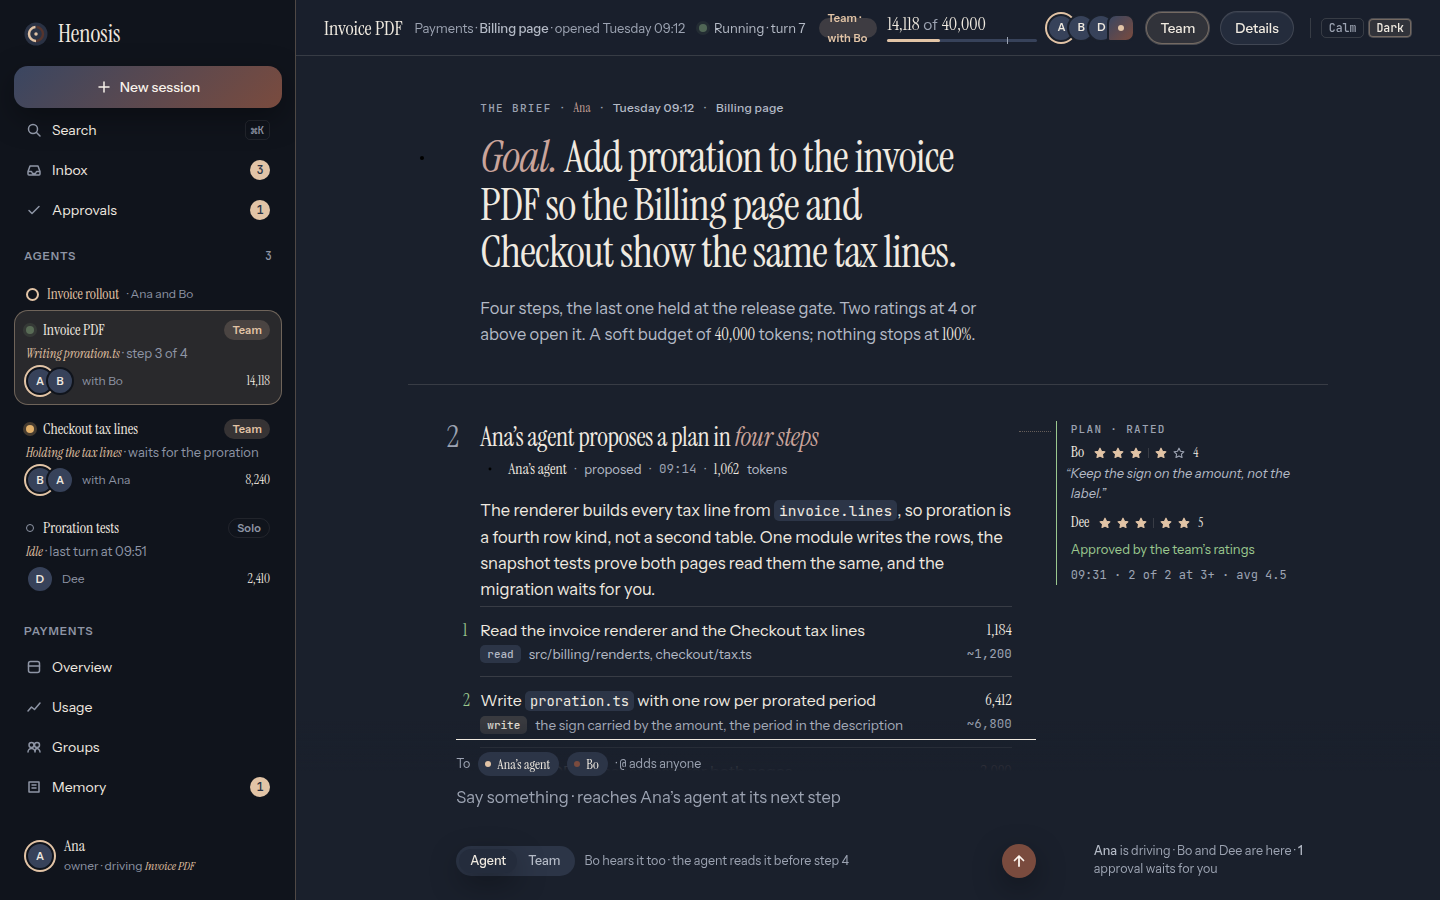
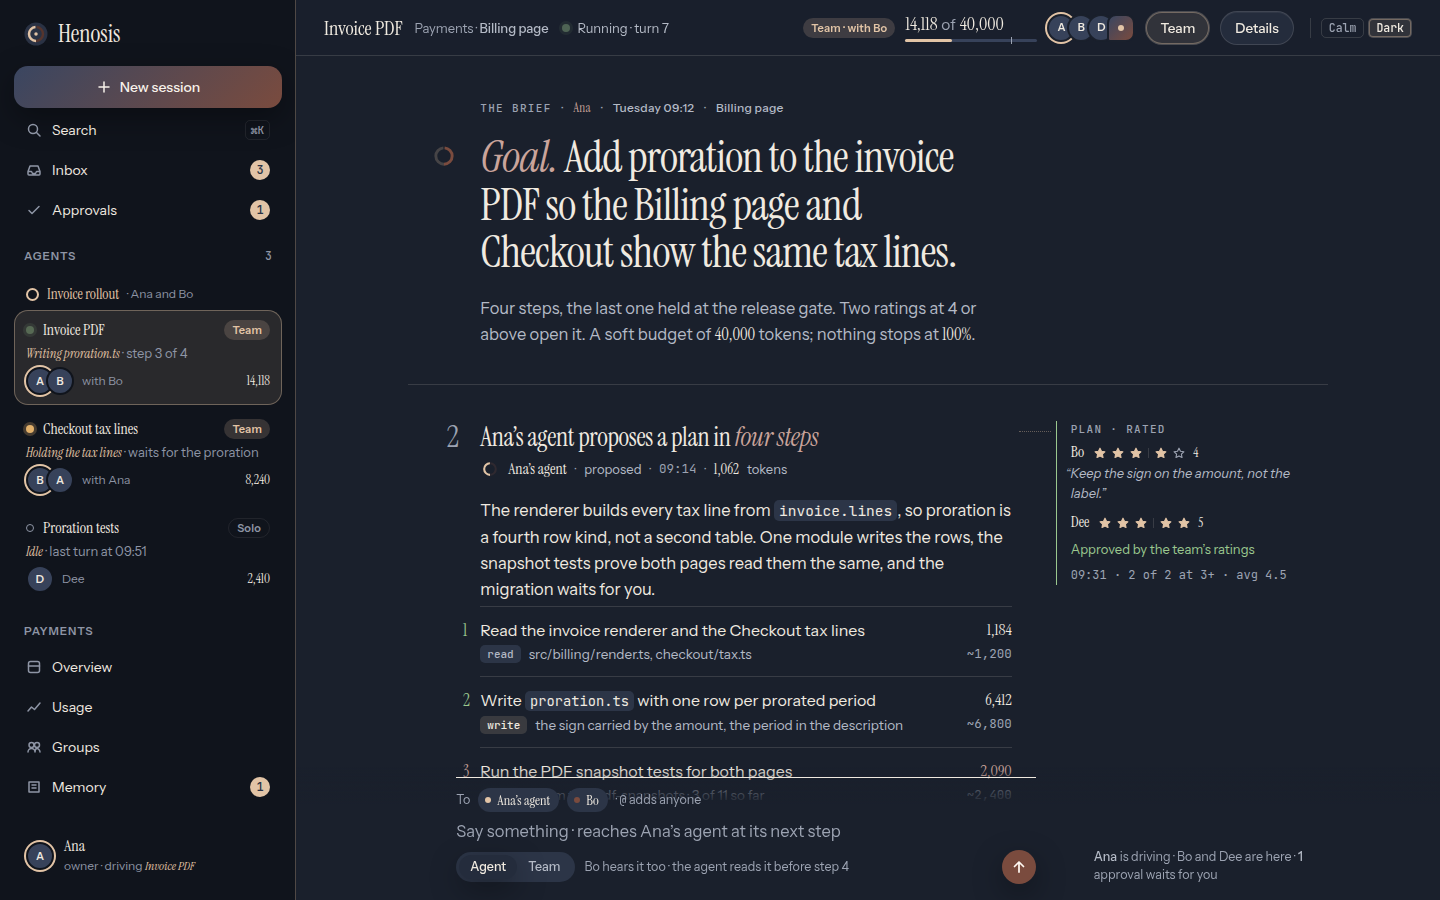
design: Henosis explorations, signature batch 9
The editorial session page, revised.

Claude-Session: https://claude.ai/code/session_01YPALfxci6V6KSAnMNM9o8c

diff --git a/design/henosis/explorations/sig-editorial-session/index.html b/design/henosis/explorations/sig-editorial-session/index.html
@@ -140,11 +140,11 @@ code { font-family: var(--mono); font-size: .92em; }
 .n .k { font-family: var(--font); font-weight: 400; font-size: .8em; color: var(--ink-3); margin-left: .18em; }
 
 /* ---- the mark: two arcs on the page (bare cut, colour by ground) -------------------------- */
-.ring { width: 20px; height: 20px; flex: none; vertical-align: -4px; }
-.ring .a { stroke: var(--ring-person); } .ring .b { stroke: var(--ring-agent); } .ring .c { fill: var(--ring-centre); }
-.ring.person .b { opacity: .22; } .ring.agent .a { opacity: .22; }   /* one voice: the other arc is a ghost */
-.ring.person .c, .ring.agent .c { opacity: 0; }
-.ring.both .c { opacity: 1; }                                        /* the team: a whole ring with its centre */
+/* colour reaches a <use> only through custom properties (SYSTEM §5, print-export's fix) */
+.ring { width: 20px; height: 20px; flex: none; vertical-align: -4px; --arc-a: var(--ring-person); --arc-b: var(--ring-agent); --arc-c: var(--ring-centre); }
+.ring.person { --arc-b-o: .22; --arc-c-o: 0; }   /* one voice: the other arc is a ghost, no centre yet */
+.ring.agent { --arc-a-o: .22; --arc-c-o: 0; }
+.ring.both { --arc-c-o: 1; }                      /* the team: a whole ring with its centre */
 .ring.lg { width: 28px; height: 28px; }
 
 /* ---- shell: navy rail + cream page --------------------------------------------------------- */
@@ -175,7 +175,7 @@ code { font-family: var(--mono); font-size: .92em; }
 .agent-card .doing i { font-family: var(--serif); font-style: italic; color: var(--apricot); }
 .agent-card .foot { display: flex; align-items: center; gap: 8px; font-size: 12px; color: var(--rail-muted); }
 .agent-card .foot .n { margin-left: auto; color: var(--rail-fg); font-size: 13px; }
-.pill { display: inline-flex; align-items: center; gap: 5px; height: 20px; padding: 0 8px; border-radius: var(--radius-full); font: 600 11px/20px var(--font); letter-spacing: .02em; background: var(--surface-3); color: var(--ink-2); }
+.pill { display: inline-flex; align-items: center; gap: 5px; white-space: nowrap; height: 20px; padding: 0 8px; border-radius: var(--radius-full); font: 600 11px/20px var(--font); letter-spacing: .02em; background: var(--surface-3); color: var(--ink-2); }
 .pill.team { background: var(--pill-team-bg); color: var(--pill-team-fg); }
 .pill.solo { background: transparent; border: 1px solid var(--rail-line); color: var(--rail-muted); }
 .pill.gate { background: var(--rail); color: var(--apricot); }
@@ -201,8 +201,8 @@ code { font-family: var(--mono); font-size: .92em; }
 .topbar .title .folio b { font-weight: 500; color: var(--ink-2); }
 .status { display: inline-flex; align-items: center; gap: 7px; font-size: 13px; color: var(--ink-2); white-space: nowrap; }
 .status::before { content: ""; width: 8px; height: 8px; border-radius: 50%; background: var(--ok); box-shadow: 0 0 0 3px var(--ok-soft); }
-.topbar .right { margin-left: auto; display: flex; align-items: center; gap: 10px; }
-.spend { display: inline-flex; flex-direction: column; gap: 4px; min-width: 150px; }
+.topbar .right { margin-left: auto; display: flex; align-items: center; gap: 10px; flex: none; }
+.spend { display: inline-flex; flex-direction: column; gap: 4px; min-width: 132px; }
 .spend .n { font-size: 18px; line-height: 20px; }
 .spend .hair { height: 3px; border-radius: 2px; background: var(--surface-3); position: relative; overflow: visible; }
 .spend .hair > i { display: block; height: 100%; width: 35.3%; background: var(--apricot-deep); border-radius: inherit; }
@@ -247,10 +247,10 @@ code { font-family: var(--mono); font-size: .92em; }
 .masthead h1 .goal { color: var(--accent-ink); font-style: italic; }
 .masthead .dek { grid-column: 2; margin-top: 18px; font-size: 16.5px; line-height: var(--lh); color: var(--ink-2); text-wrap: pretty; }
 .masthead .dek .n { color: var(--ink); }
-.masthead .gutter { grid-row: 1 / span 3; align-self: start; padding-top: 44px; }
+.masthead .gutter { grid-row: 1 / span 3; align-self: start; padding-top: 42px; display: flex; justify-content: flex-end; padding-right: 22px; }
 
 /* a turn: hung numeral in the gutter, serif heading, byline on the line, prose on the measure */
-.turn { margin-bottom: 40px; }
+.turn { margin-bottom: 40px; scroll-margin-top: 28px; }
 .turn .gutter .num { font-family: var(--serif); font-weight: 400; font-size: 30px; line-height: 32px; letter-spacing: -0.02em; font-variation-settings: "opsz" 48, "SOFT" 60, "WONK" 0; color: var(--ink-3); text-align: right; padding-right: 22px; }
 .turn h2 { font-family: var(--serif); font-weight: 400; font-size: 26px; line-height: 32px; letter-spacing: -0.015em; font-variation-settings: "opsz" 48, "SOFT" 50, "WONK" 0; text-wrap: balance; hanging-punctuation: first; }
 .turn h2 i { font-style: italic; color: var(--accent-ink); }
@@ -323,6 +323,7 @@ code { font-family: var(--mono); font-size: .92em; }
 .decision { font-family: var(--serif); font-style: italic; font-weight: 400; font-size: 22px; line-height: 30px; letter-spacing: -0.005em; font-variation-settings: "opsz" 22, "SOFT" 100, "WONK" 0; padding-left: 22px; border-left: 2px solid transparent; border-image: var(--gate-stripe) 1; text-wrap: pretty; }
 .decision code { font-style: normal; font-size: .72em; background: var(--surface-2); padding: 2px 7px; border-radius: 6px; vertical-align: 1px; }
 .rule { margin-top: 12px; font-size: 14.5px; line-height: 22px; color: var(--ink-2); }
+#gate .body { min-height: 196px; }   /* the note in the margin is taller than the passage; the page holds open for it */
 .rule b { font-weight: 500; color: var(--ink); }
 
 /* ---- marginal notes (ai-interfaces-avoid §9; editorial-type §10's margin) -------------------- */
@@ -369,14 +370,14 @@ code { font-family: var(--mono); font-size: .92em; }
 .colophon .n { color: var(--ink-2); }
 
 /* ---- the composer as a bottom rule (ai-interfaces-avoid §2, §3; presence-and-agents §7) ------- */
-.composer-wrap { position: sticky; bottom: 0; padding: 18px 24px 22px; background: linear-gradient(to top, var(--canvas) 72%, transparent); z-index: 2; }
+.composer-wrap { position: sticky; bottom: 0; padding: 10px 24px 16px; background: linear-gradient(to top, var(--canvas) 72%, transparent); z-index: 2; }
 .composer { width: min(var(--page-w, 1000px), 100%); margin: 0 auto; display: grid; grid-template-columns: var(--gutter-w) minmax(0, var(--measure)) var(--margin-gap) var(--margin-w); --page-w: calc(var(--gutter-w) + var(--measure) + var(--margin-gap) + var(--margin-w)); }
-.composer .field { grid-column: 2; border-top: 1px solid var(--ink); padding-top: 12px; display: flex; flex-direction: column; gap: 8px; transition: box-shadow var(--t) var(--ease-move); }
+.composer .field { grid-column: 2; border-top: 1px solid var(--ink); padding-top: 10px; display: flex; flex-direction: column; gap: 6px; transition: box-shadow var(--t) var(--ease-move); }
 .composer .to { display: flex; align-items: center; gap: 8px; font-size: 12.5px; color: var(--ink-3); }
 .composer .to .chip { display: inline-flex; align-items: center; gap: 6px; height: 24px; padding: 0 9px 0 7px; border-radius: var(--radius-full); background: var(--surface-2); font-family: var(--serif); font-size: 14px; color: var(--ink); }
 .composer .to .chip i { width: 6px; height: 6px; border-radius: 50%; background: var(--ring-agent); }
 .composer .to .chip.person i { background: var(--ring-person); }
-.composer textarea { width: 100%; border: 0; background: transparent; resize: none; outline: none; font: 400 16.5px/26px var(--font); min-height: 52px; padding: 0; color: var(--ink); }
+.composer textarea { width: 100%; border: 0; background: transparent; resize: none; outline: none; font: 400 16.5px/26px var(--font); min-height: 26px; padding: 0; color: var(--ink); field-sizing: content; }
 .composer textarea::placeholder { color: var(--ink-3); }
 .composer .bar { display: flex; align-items: center; gap: 10px; }
 .composer .bar .steer { font-size: 12.5px; color: var(--ink-3); }
@@ -390,6 +391,7 @@ code { font-family: var(--mono); font-size: .92em; }
 /* ---- the phone's frame: the rail folds into a navy block, the margin folds under the text ------ */
 .phonebar { display: none; }
 @media (max-width: 720px) {
+  #gate .body { min-height: 0; }
   .rail { display: none; }
   .topbar { display: none; }
   .phonebar { display: flex; align-items: center; gap: 10px; padding: 14px 16px 12px; background: var(--rail); color: var(--rail-fg); position: sticky; top: 0; z-index: 3; }
@@ -402,7 +404,7 @@ code { font-family: var(--mono); font-size: .92em; }
   :root { --gutter-w: 0px; --margin-w: 0px; --margin-gap: 0px; --lh: 26px; }
   .page { padding: 28px 16px 24px; grid-template-columns: minmax(0, 1fr); }
   .page > * { grid-template-columns: minmax(0, 1fr); }
-  .gutter { display: none; }
+  .gutter, .masthead .gutter { display: none; }
   .body, .masthead .kicker, .masthead h1, .masthead .dek, .colophon p, .fold details { grid-column: 1; }
   .masthead { padding-bottom: 26px; margin-bottom: 26px; }
   .masthead h1 { font-size: 30px; line-height: 34px; }
@@ -453,9 +455,9 @@ code { font-family: var(--mono); font-size: .92em; }
     <!-- the mark, bare cut on a 96 grid (SYSTEM §5): the person's arc on the right, the agent's on the left,
          each drawn 6 → 12 so the seam sits at the top; the centre is the lightest colour present -->
     <symbol id="ring" viewBox="0 0 96 96">
-      <path class="a" d="M48 76 A28 28 0 0 0 48 20" fill="none" stroke-width="10" pathLength="100" stroke-dasharray="97 100"/>
-      <path class="b" d="M48 76 A28 28 0 0 1 48 20" fill="none" stroke-width="10" pathLength="100" stroke-dasharray="97 100"/>
-      <circle class="c" cx="48" cy="48" r="7"/>
+      <path d="M48 76 A28 28 0 0 0 48 20" fill="none" stroke-width="10" pathLength="100" stroke-dasharray="97 100" style="stroke: var(--arc-a, #56352D); opacity: var(--arc-a-o, 1)"/>
+      <path d="M48 76 A28 28 0 0 1 48 20" fill="none" stroke-width="10" pathLength="100" stroke-dasharray="97 100" style="stroke: var(--arc-b, #2A3244); opacity: var(--arc-b-o, 1)"/>
+      <circle cx="48" cy="48" r="7" style="fill: var(--arc-c, #E2C4A6); opacity: var(--arc-c-o, 1)"/>
     </symbol>
     <symbol id="mark-disc" viewBox="0 0 96 96">
       <circle cx="48" cy="48" r="46" fill="#2A3244"/>
@@ -510,7 +512,7 @@ code { font-family: var(--mono); font-size: .92em; }
       <span class="n">14,118<span class="of">of</span>40,000</span>
     </header>
     <header class="topbar">
-      <div class="title">Invoice PDF <span class="folio">Payments · <b>Billing page</b> · opened Tuesday 09:12</span></div>
+      <div class="title">Invoice PDF <span class="folio">Payments · <b>Billing page</b></span></div>
       <span class="status">Running · turn 7</span>
       <div class="right">
         <span class="pill team">Team · with Bo</span>
@@ -581,7 +583,7 @@ code { font-family: var(--mono); font-size: .92em; }
         </section>
 
         <!-- turn 3: Bo, to the team -->
-        <section class="turn" aria-label="Turn 3">
+        <section class="turn" id="team" aria-label="Turn 3">
           <div class="gutter"><div class="num" aria-hidden="true">3</div></div>
           <div class="body">
             <h2 data-n="3">Bo, <i>to the team</i></h2>
@@ -610,7 +612,7 @@ code { font-family: var(--mono); font-size: .92em; }
         </div>
 
         <!-- turn 7: live -->
-        <section class="turn new" aria-label="Turn 7">
+        <section class="turn new" id="now" aria-label="Turn 7">
           <div class="gutter"><div class="num" aria-hidden="true">7</div></div>
           <div class="body">
             <h2 data-n="7">Ana’s agent writes <i>proration.ts</i> and runs the snapshots</h2>
@@ -629,7 +631,7 @@ code { font-family: var(--mono); font-size: .92em; }
         </section>
 
         <!-- the gate: step 4 as a decision on the page, answered in the margin -->
-        <section class="turn" aria-label="The release gate">
+        <section class="turn" id="gate" aria-label="The release gate">
           <div class="gutter"><div class="num" aria-hidden="true">4</div></div>
           <div class="body">
             <div class="gate-line"><span class="pill gate">Release gate</span><span class="step">step 4 of 4</span></div>
@@ -671,7 +673,7 @@ code { font-family: var(--mono); font-size: .92em; }
           <div class="field">
             <div class="to">To<span class="chip"><i></i>Ana’s agent</span><span class="chip person"><i></i>Bo</span><span>· <code>@</code> adds anyone</span></div>
             <label class="sr" for="say">Say something</label>
-            <textarea id="say" rows="2" placeholder="Say something · reaches Ana’s agent at its next step"></textarea>
+            <textarea id="say" rows="1" placeholder="Say something · reaches Ana’s agent at its next step"></textarea>
             <div class="bar">
               <div class="seg" role="group" aria-label="Who hears it"><button type="button" class="on">Agent</button><button type="button">Team</button></div>
               <span class="steer">Bo hears it too · the agent reads it before step 4</span>
@@ -731,6 +733,11 @@ code { font-family: var(--mono); font-size: .92em; }
     else if (/^[1-5]$/.test(e.key)) { pick(+e.key); }
   });
   paint(picked, false);
+
+  // the phone has no room for the steer in the placeholder; the line under the field carries it
+  var say = document.getElementById('say'), mq = window.matchMedia('(max-width: 720px)');
+  function place() { say.placeholder = mq.matches ? 'Say something' : 'Say something · reaches Ana\u2019s agent at its next step'; }
+  mq.addEventListener('change', place); place();
 })();
 </script>
 </body>
